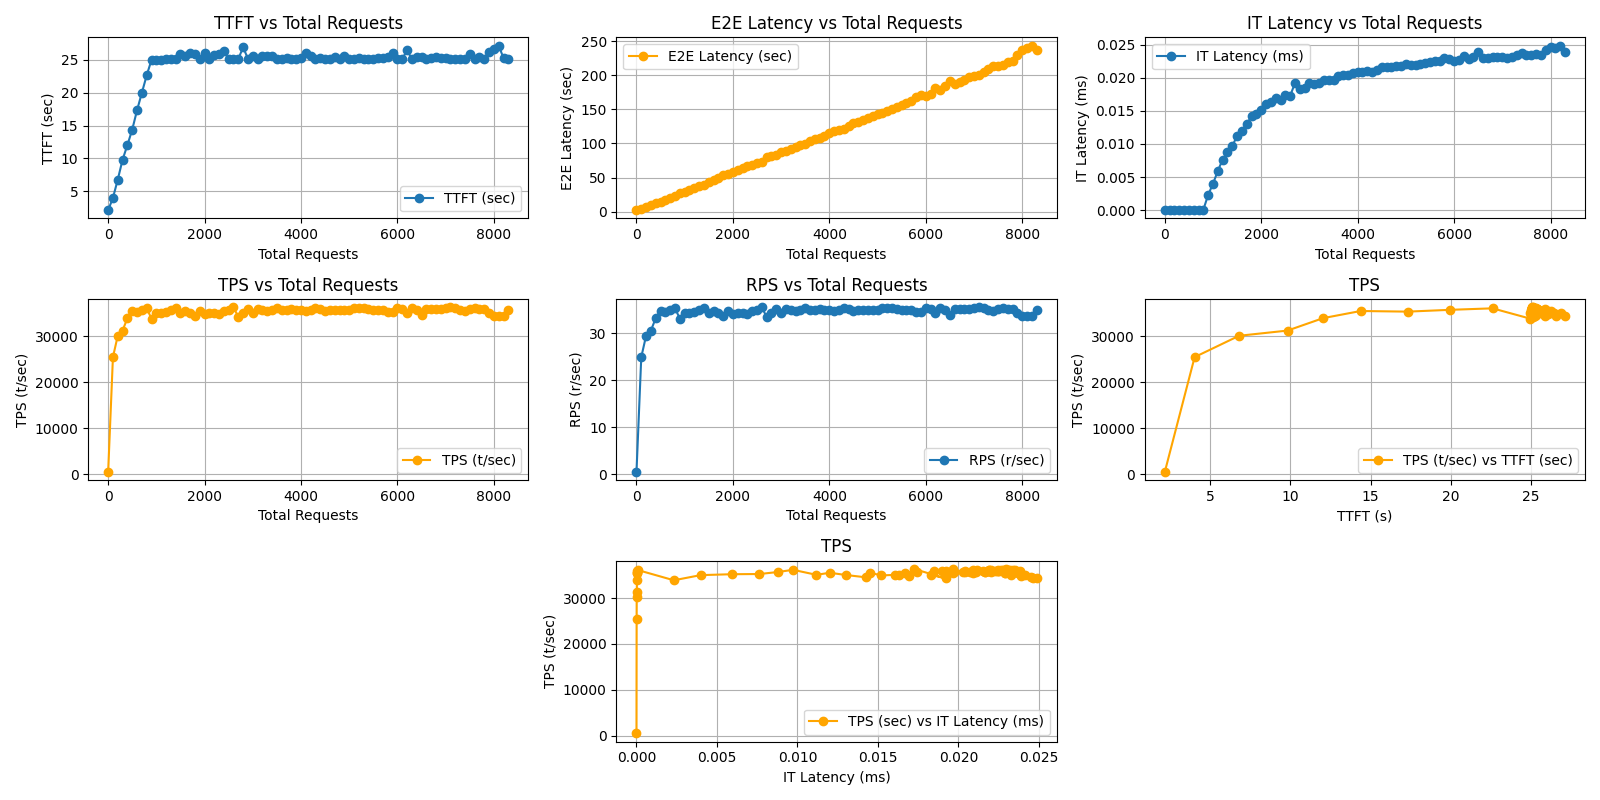
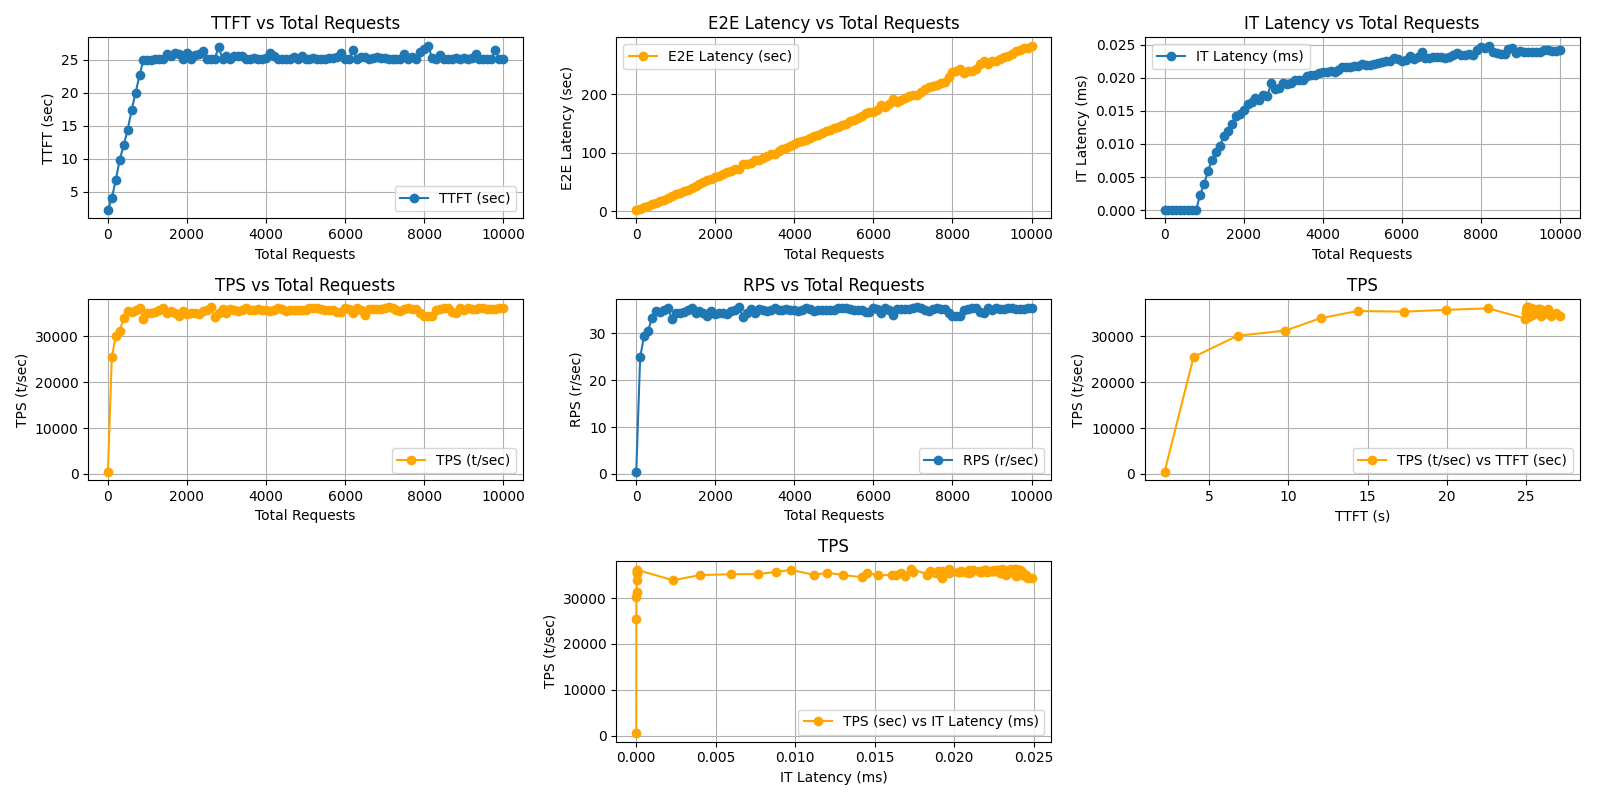
Add: 2 experiments (diff requests number and 1 request with diff lengths)

diff --git a/src/baselines/plot.py b/src/baselines/plot.py
@@ -107,7 +107,7 @@ e2e_latency = []
 tps = []
 rps = []
 
-for cnt in range(0, 110):
+for cnt in range(0, 600):
     n = 1
     m = max(10 * cnt, 1)
     file_name = f"/home/slivanovich/TRT-LLM/data/plots/plots_data/{n}_{m}.txt"
@@ -140,43 +140,35 @@ if len(ns) == 0:
 
 plt.figure(figsize=(16, 8))
 
-plt.subplot(3, 2, 1)
-plt.plot(m, ttft, marker='o', label='TTFT (sec)')
+plt.subplot(2, 2, 1)
+plt.plot(ms, ttft, marker='o', label='TTFT (sec)')
 plt.title('TTFT vs Request length')
 plt.xlabel('Request length')
 plt.ylabel('TTFT (sec)')
 plt.grid()
 plt.legend()
 
-plt.subplot(3, 2, 2)
-plt.plot(m, e2e_latency, marker='o', color='orange', label='E2E Latency (sec)')
+plt.subplot(2, 2, 2)
+plt.plot(ms, e2e_latency, marker='o', color='orange', label='E2E Latency (sec)')
 plt.title('E2E Latency vs Total Requests')
 plt.xlabel('Request length')
 plt.ylabel('E2E Latency (sec)')
 plt.grid()
 plt.legend()
 
-plt.subplot(3, 2, 3)
-plt.plot(m, itl, marker='o', label='IT Latency (ms)')
+plt.subplot(2, 2, 3)
+plt.plot(ms, itl, marker='o', label='IT Latency (ms)')
 plt.title('IT Latency vs Total Requests')
 plt.xlabel('Request length')
 plt.ylabel('IT Latency (ms)')
 plt.grid()
 plt.legend()
 
-plt.subplot(3, 2, 4)
-plt.plot(m, tps, marker='o', color='orange', label='TPS (t/sec)')
+plt.subplot(2, 2, 4)
+plt.plot(ms, tps, marker='o', color='orange', label='TPS (t/sec)')
 plt.title('TPS vs Total Requests')
 plt.xlabel('Request length')
 plt.ylabel('TPS (t/sec)')
-plt.grid()
-plt.legend()
-
-plt.subplot(3, 2, 6)
-plt.plot(m, rps, marker='o', color='orange', label='RPS (r/sec)')
-plt.title('RPS vs Total Requests')
-plt.xlabel('Request length')
-plt.ylabel('RPS (r/sec)')
 plt.grid()
 plt.legend()
 

diff --git a/src/baselines/main.cpp b/src/baselines/main.cpp
@@ -57,17 +57,18 @@ int main(int argc, char *argv[]) {
     auto executor =
         trt_executor::Executor(runtimeOptions.enginePath, trt_executor::ModelType::kDECODER_ONLY, executorConfig);
 
-    for (size_t cnt = 0; cnt < 110; cnt++) {
-        const size_t n = std::max(100 * cnt, (size_t)1);
+    for (size_t cnt = 110; cnt < 501; cnt += 10) {
+        // const size_t n = std::max(100 * cnt, (size_t)1);
+        const size_t n = 1;
         const size_t m = std::max(10 * cnt, (size_t)1);
 
         runtimeOptions.metrics.init();
         runtimeOptions.inputFilePath = "/TRT-LLM/datasets/" + std::to_string(n) + "_" + std::to_string(m) + ".csv";
-        runtimeOptions.maxOutputTokens = m;
+        runtimeOptions.maxOutputTokens = 1024;
 
         if (runtimeOptions.randomDataset) {
             Logger::getInstance(true).info("Random dataset size: " +
-                                           std::to_string(generateRandomDataset(runtimeOptions.inputFilePath, n)));
+                                           std::to_string(generateRandomDataset(runtimeOptions.inputFilePath, n, m)));
         }
 
         if (executor.canEnqueueRequests()) {
@@ -82,7 +83,7 @@ int main(int argc, char *argv[]) {
                               runtimeOptions.metrics);
 
             runtimeOptions.metrics.compute();
-            runtimeOptions.metrics.display("/TRT-LLM/plots/plots_data/" + std::to_string(n) + "_1024.txt");
+            runtimeOptions.metrics.display("/TRT-LLM/plots/plots_data/" + std::to_string(n) + "_" + std::to_string(m) + ".txt");
         } else {
             exit(2);
         }

diff --git a/src/baselines/baselines.cpp b/src/baselines/baselines.cpp
@@ -5,7 +5,7 @@ uint64_t getTimeInMs() {
     return duration_cast<milliseconds>(system_clock::now().time_since_epoch()).count();
 }
 
-size_t generateRandomDataset(const std::string &inputFilePath, size_t n) {
+size_t generateRandomDataset(const std::string &inputFilePath, size_t n, size_t m) {
     try {
         std::ofstream file(inputFilePath);
 
@@ -14,11 +14,10 @@ size_t generateRandomDataset(const std::string &inputFilePath, size_t n) {
                                                 ", aborting..");
         }
 
-        size_t m;
         n == 0 ? n = std::rand() % (1 << 12) + (1 << 10) : n = std::max(n, (size_t)0);
 
         for (size_t row = 0; row < n; row++) {
-            m = std::rand() % (1 << 6) + (1 << 4);
+            m == 0 ? std::rand() % (1 << 6) + (1 << 4) : m = std::max(m, (size_t)0);
             for (size_t column = 0; column < m; column++) {
                 file << rand() % (1 << 10) + 1;
                 column != m - 1 ? file << ", " : file << "\n";

diff --git a/src/baselines/baselines.hpp b/src/baselines/baselines.hpp
@@ -23,7 +23,7 @@ uint64_t getTimeInMs();
 
 RuntimeOptions parseArgs(int argc, char *argv[]);
 
-size_t generateRandomDataset(const std::string &inputFilePath, size_t n = 0);
+size_t generateRandomDataset(const std::string &inputFilePath, size_t n = 0, size_t m = 0);
 
 std::vector<trt_executor::IdType> enqueueRequests(RuntimeOptions &runtimeOpts, trt_executor::Executor &executor);
 
